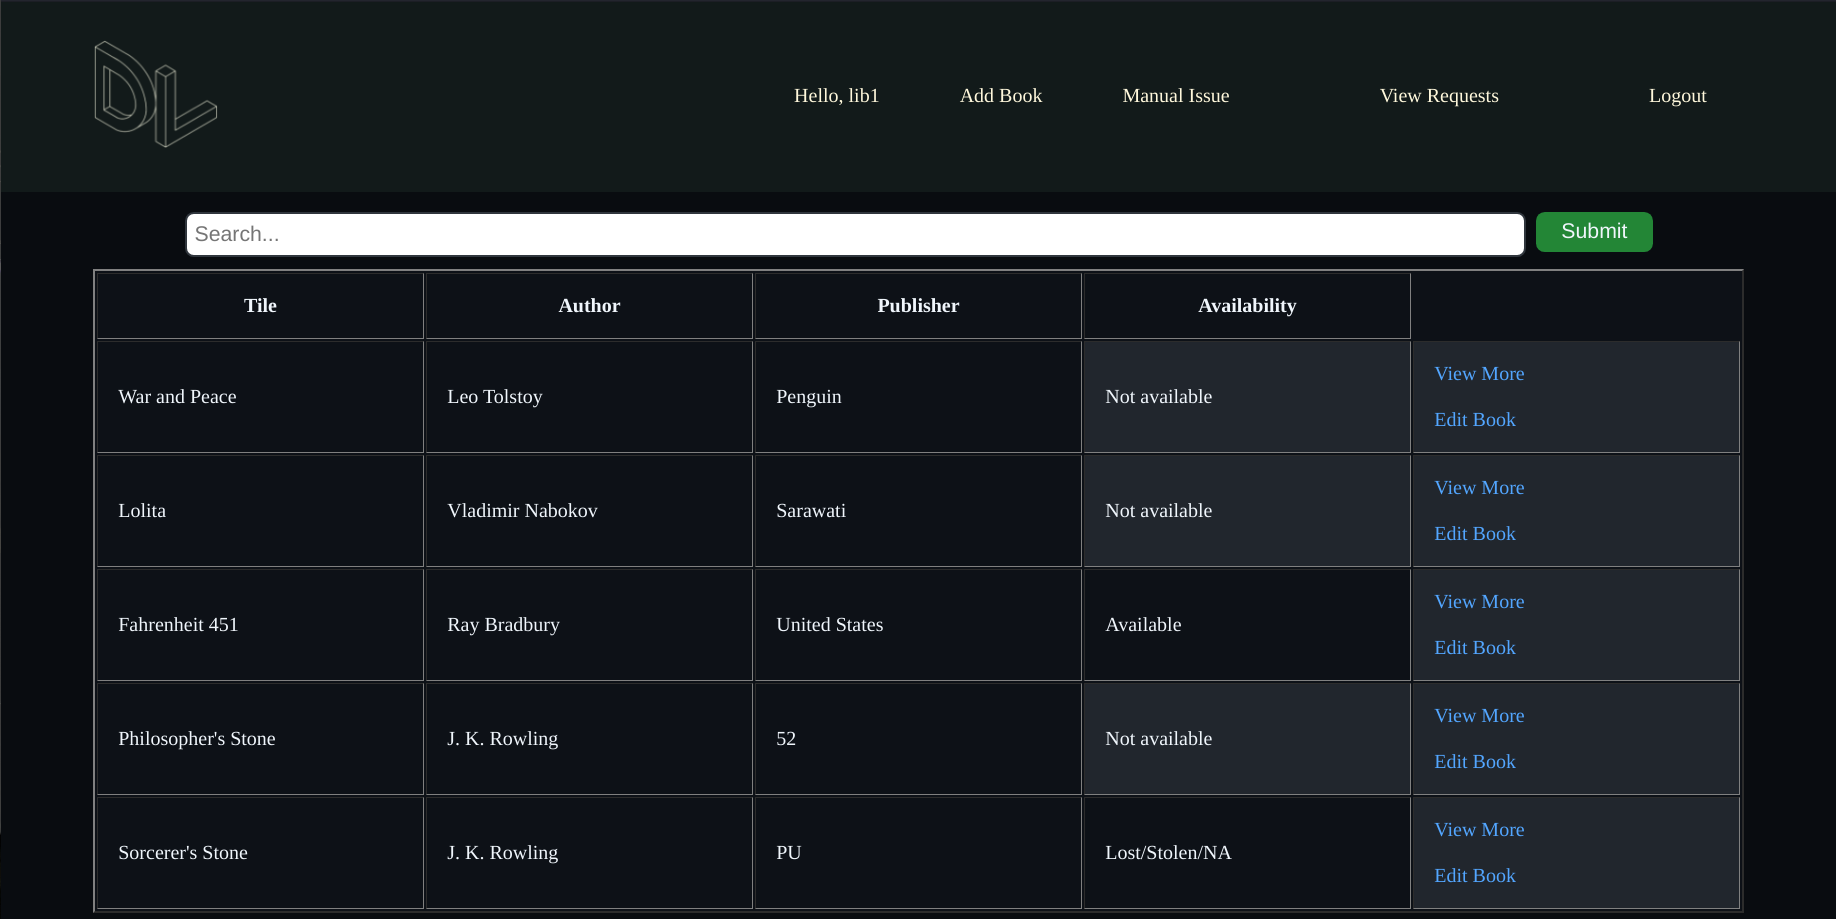
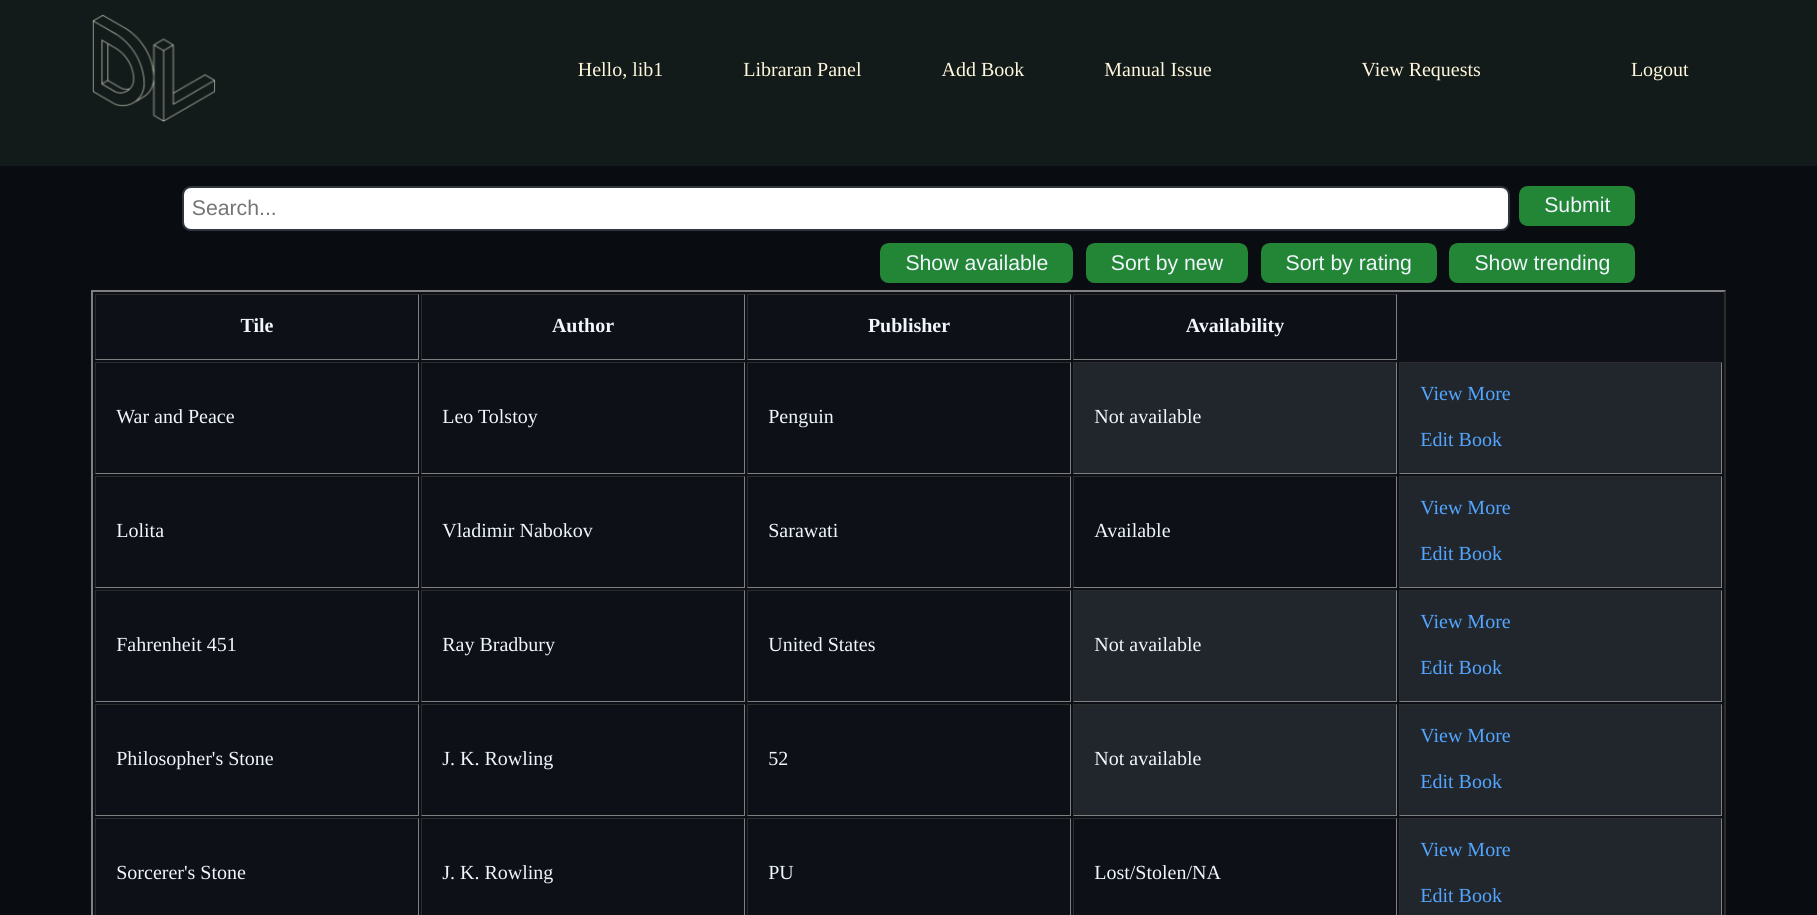
Added new features

diff --git a/DevLibrary/Templates/Home/home.html b/DevLibrary/Templates/Home/home.html
@@ -30,6 +30,12 @@
          <input type="text" placeholder="Search..." name="srch" id="srch">
          <button type="submit">Submit</button>
         </form>
+        <a href= "/trend/" style ="color:white;text-decoration:none;"><button style="margin:0px 0px 5px 10px">  Show trending </button></a>
+        <a href= "/sortrate/" style ="color:white;text-decoration:none;"><button style="margin:0px 0px 5px 10px">  Sort by rating  </button></a>
+        <a href= "/sortnew/" style ="color:white;text-decoration:none;"><button style="margin:0px 0px 5px 10px">  Sort by new  </button></a>
+        <a href= "/sortavlbl/" style ="color:white;text-decoration:none;"><button style="margin:0px 0px 5px 10px">  Show available  </button></a>
+
+        
     </div>
 
     <div>

diff --git a/DevLibrary/Templates/Home/home-librarian.html b/DevLibrary/Templates/Home/home-librarian.html
@@ -30,6 +30,10 @@
          <input type="text" placeholder="Search..." name="srch" id="srch">
          <button type="submit">Submit</button>
         </form>
+        <a href= "/trend/" style ="color:white;text-decoration:none;"><button style="margin:0px 0px 5px 10px">  Show trending </button></a>
+        <a href= "/sortrate/" style ="color:white;text-decoration:none;"><button style="margin:0px 0px 5px 10px">  Sort by rating  </button></a>
+        <a href= "/sortnew/" style ="color:white;text-decoration:none;"><button style="margin:0px 0px 5px 10px">  Sort by new  </button></a>
+        <a href= "/sortavlbl/" style ="color:white;text-decoration:none;"><button style="margin:0px 0px 5px 10px">  Show available  </button></a>
     </div>
 
     <div>

diff --git a/DevLibrary/book/views.py b/DevLibrary/book/views.py
@@ -9,12 +9,67 @@ from .forms import BookForm,IssueForm
 
 # Create your views here.
 
+def avlbl_view(request,*args,**kwargs):
+    books = Book.objects.all()
+    book_list = []
+    for book in books:
+        if book.Available:
+            book_list.append(book)
+    if request.user.groups.filter(name="Librarian"):
+        return render(request,"Home/home-librarian.html",{"books":book_list})
+    else:
+        return render(request,"Home/home.html",{"books":book_list})
+    
+            
 
+
+def sort_rate(request,*args,**kwargs):
+    books = Book.objects.all()
+    book_rate = []
+    for book in books:
+        bookratings = Rates.objects.filter(bookID=book.id)
+        fr = float(0)
+        l = float(0)
+        for rate in bookratings:
+            fr = fr + float(rate.rates)
+            l=l+1
+        if fr!=0:
+            fr = float(fr)/l
+        else:
+            fr = float(0)
+        book_rate.append([book,fr])
+    book_rate.sort(key=lambda x:x[1]) 
+    book_rate.reverse()  
+    book_list= [i[0] for i in book_rate]
+    if request.user.groups.filter(name="Librarian"):
+        return render(request,"Home/home-librarian.html",{"books":book_list})
+    else:
+        return render(request,"Home/home.html",{"books":book_list})
+
+
+
+def trend_view(request,*args,**kwargs):
+    books = Book.objects.all()
+    book_trend = []
+    for book in books:
+        book_trend.append([book,Issue.objects.filter(BookID =book.id).count()])
+    book_trend.sort(key=lambda x:x[1]) 
+    book_print = book_trend[-4:]  
+    book_list= [i[0] for i in book_print]
+    if request.user.groups.filter(name="Librarian"):
+        return render(request,"Home/home-librarian.html",{"books":book_list})
+    else:
+        return render(request,"Home/home.html",{"books":book_list})
+        
 
 def req_view(request,*args,**kwargs):
     issues = Issue.objects.all()
+    issue_list=[]
+    for issue in issues:
+        issue_list.append(issue)
+    issue_list.reverse()
     if request.user.groups.filter(name="Librarian"):
-        return render(request,"Home/req.html",{"issues":issues,"day":datetime.date.today()})
+        return render(request,"Home/req.html",{"issues":issue_list,"day":datetime.date.today()})
 
 def reject_book_view(request,id,*args,**kwargs):
     if request.method =='POST':
@@ -45,6 +100,17 @@ def reqextno(request,id,*args,**kwargs):
         isss.State = "Issued/Ext Denied"
         isss.save()
     return redirect('/req')
+
+def new_view(request,*args,**kwargs):
+    books = Book.objects.all()
+    book_list=[]
+    for book in books:
+        book_list.append(book)
+    book_list.reverse()
+    if request.user.groups.filter(name="Librarian"):
+        return render(request,"Home/home-librarian.html",{"books":book_list})
+    else:
+        return render(request,"Home/home.html",{"books":book_list})
  
   
 def issuereq_view(request,id,*args,**kwargs):

diff --git a/DevLibrary/DevLibrary/urls.py b/DevLibrary/DevLibrary/urls.py
@@ -18,7 +18,7 @@ from django.urls import path
 from Home.views import home_view
 from Home.views import login_view,home_search
 from users.views import signup_view,login_view,logout_view,user_view
-from book.views import book_view,book_from_view,rate_book,return_book_view,req_view,issuereq_view,issue_form_view,reqext_view,reqextyes,reqextno,edit_book_view,edit_save_view,reject_book_view#Yes, this is a typo, sorry
+from book.views import book_view,book_from_view,rate_book,return_book_view,req_view,issuereq_view,issue_form_view,reqext_view,reqextyes,reqextno,edit_book_view,edit_save_view,reject_book_view,trend_view,sort_rate,new_view,avlbl_view#Yes, this is a typo, sorry
 
 
 
@@ -48,5 +48,9 @@ urlpatterns = [
     path('reqextn/<int:id>',reqextno, name='rview'),
     path('req/', req_view, name='reqview'),
     path('search/', home_search, name='user'),
+    path('sortrate/',sort_rate, name='sort'),
+    path('trend/', trend_view, name='trend'),
+    path('sortnew/', new_view, name='trend'),
+    path('sortavlbl/', avlbl_view, name='avlbl'),
     path('admin/', admin.site.urls)
 ]

diff --git a/DevLibrary/Home/views.py b/DevLibrary/Home/views.py
@@ -1,15 +1,20 @@
 from django.shortcuts import render,redirect
 from book.models import Book
+import random
 
 # Create your views here.
 def home_view(request,*args,**kwargs):
 
     
     books = Book.objects.all()
+    book_list = []
+    for book in books:
+        book_list.append(book)
+    random.shuffle(book_list)
     if request.user.groups.filter(name="Librarian"):
-        return render(request,"Home/home-librarian.html",{"books":books})
+        return render(request,"Home/home-librarian.html",{"books":book_list})
     else:
-        return render(request,"Home/home.html",{"books":books})
+        return render(request,"Home/home.html",{"books":book_list})
     
 def home_search(request,*args,**kwargs):
     if request.method =='GET':

diff --git a/DevLibrary/users/views.py b/DevLibrary/users/views.py
@@ -7,6 +7,7 @@ import datetime
 # Create your views here.
 def user_view(request,*args,**kwargs):
     bks= Issue.objects.all()
+    bks.reverse()
     today = datetime.date.today()
     return render(request,"User/User.html",{"bks":bks , "today":today})
 

diff --git a/README.md b/README.md
@@ -24,7 +24,11 @@ Open DevLibrary folder to view the django files
 13. Librarian can reject or accept the extension
 14. If issue overdue, shows the entry in red
 15. Nice and appealing dark mode design
-16. Checks for username not taken and email not already reistered 
+16. Checks for username not taken and email not already reistered
+17. Button to show top 4 trending books
+18. Button to sort by trendng 
+19. Button to show only available books
+20. Button to sort by new
 
 # Installation
 
